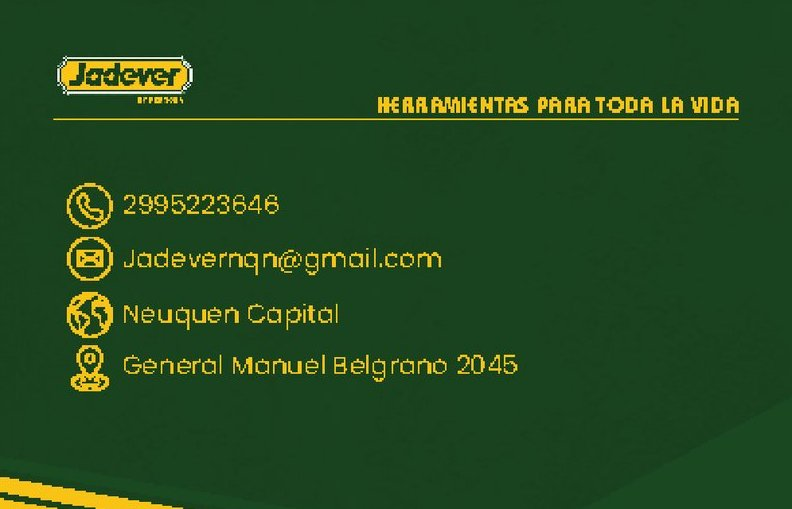
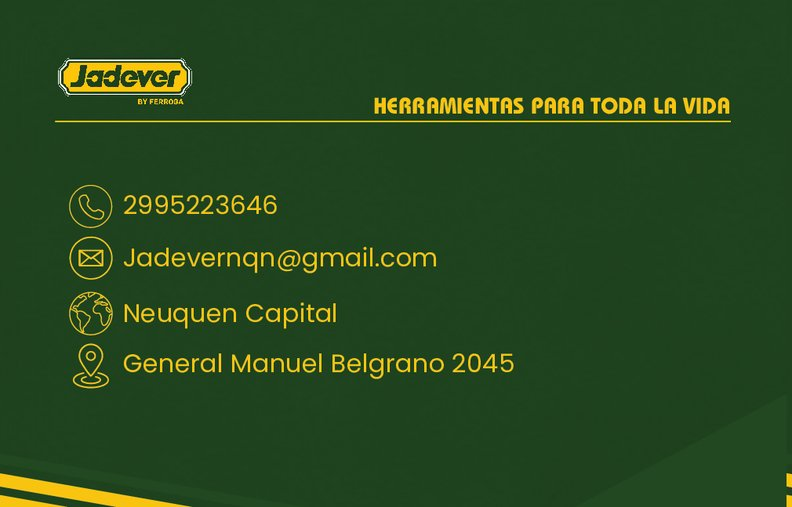
Cambia el dorso de Jadever y separa más las tarjetas
Claude-Session: https://claude.ai/code/session_01RUcYRVFNa8RXKxe8RuP12H

diff --git a/tarjetas.html b/tarjetas.html
@@ -15,7 +15,7 @@
 <link rel="preconnect" href="https://fonts.googleapis.com">
 <link rel="preconnect" href="https://fonts.gstatic.com" crossorigin>
 <link rel="stylesheet" href="https://fonts.googleapis.com/css2?family=Plus+Jakarta+Sans:wght@400;600;700;800&display=swap">
-<link rel="stylesheet" href="css/styles.css?v=6">
+<link rel="stylesheet" href="css/styles.css?v=7">
 </head>
 <body>
 <a class="skip" href="#contenido">Saltar al contenido</a>
@@ -58,7 +58,7 @@
           <button type="button" class="flip-card flip-card--b" aria-pressed="false" aria-label="Tarjeta doble faz de Jadever: mostrar el dorso">
             <span class="flip-card__inner">
               <img class="flip-card__face" src="img/tarjeta-jadever-frente.jpg" alt="" width="792" height="509">
-              <img class="flip-card__face flip-card__face--back" src="img/tarjeta-jadever-dorso.jpg" alt="" width="792" height="509">
+              <img class="flip-card__face flip-card__face--back" src="img/tarjeta-jadever-dorso.jpg" alt="" width="792" height="507">
             </span>
           </button>
         </div>
@@ -134,6 +134,6 @@
 
 <a class="wa-float" href="https://wa.me/5492995973790?text=Hola%2C%20quiero%20hacer%20una%20consulta" aria-label="Escribinos por WhatsApp"><svg aria-hidden="true" viewBox="0 0 16 16" fill="currentColor"><path d="M11.42 9.49c-.19-.09-1.1-.54-1.27-.61s-.29-.09-.42.1-.48.6-.59.73-.21.14-.4 0a5.13 5.13 0 0 1-1.49-.92 5.25 5.25 0 0 1-1-1.29c-.11-.18 0-.28.08-.38s.18-.21.28-.32a1.39 1.39 0 0 0 .18-.31.38.38 0 0 0 0-.33c0-.09-.42-1-.58-1.37s-.3-.32-.41-.32h-.4a.72.72 0 0 0-.5.23 2.1 2.1 0 0 0-.65 1.55A3.59 3.59 0 0 0 5 8.2 8.32 8.32 0 0 0 8.19 11c.44.19.78.3 1.05.39a2.53 2.53 0 0 0 1.17.07 1.93 1.93 0 0 0 1.26-.88 1.67 1.67 0 0 0 .11-.88c-.05-.07-.17-.12-.36-.21z"/><path d="M13.29 2.68A7.36 7.36 0 0 0 8 .5a7.44 7.44 0 0 0-6.41 11.15l-1 3.85 3.94-1a7.4 7.4 0 0 0 3.55.9H8a7.44 7.44 0 0 0 5.29-12.72zM8 14.12a6.12 6.12 0 0 1-3.15-.87l-.22-.13-2.34.61.62-2.28-.14-.23a6.18 6.18 0 0 1 9.6-7.65 6.12 6.12 0 0 1 1.81 4.37A6.19 6.19 0 0 1 8 14.12z"/></svg></a>
 
-<script src="js/main.js?v=6" defer></script>
+<script src="js/main.js?v=7" defer></script>
 </body>
 </html>

diff --git a/css/styles.css b/css/styles.css
@@ -380,10 +380,10 @@ h1, h2, h3, p { margin: 0; }
 }
 
 /* Tarjetas doble faz cruzadas: se dan vuelta al pasar el mouse o al tocarlas */
-.flip-cards { position: relative; width: 100%; max-width: 520px; margin: 0 auto; aspect-ratio: 1 / 0.86; perspective: 1400px; }
-.flip-card { position: absolute; width: 70%; aspect-ratio: 1.6; padding: 0; border: 0; background: none; cursor: pointer; border-radius: 12px; transform: translate(-50%, -50%) rotate(var(--rot)); transition: transform .5s cubic-bezier(.2, .7, .2, 1); -webkit-tap-highlight-color: transparent; }
-.flip-card--a { --rot: -17deg; left: 44%; top: 42%; z-index: 1; }
-.flip-card--b { --rot: 17deg; left: 56%; top: 58%; z-index: 2; }
+.flip-cards { position: relative; width: 100%; max-width: 520px; margin: 0 auto; aspect-ratio: 1 / 0.92; perspective: 1400px; }
+.flip-card { position: absolute; width: 60%; aspect-ratio: 1.6; padding: 0; border: 0; background: none; cursor: pointer; border-radius: 12px; transform: translate(-50%, -50%) rotate(var(--rot)); transition: transform .5s cubic-bezier(.2, .7, .2, 1); -webkit-tap-highlight-color: transparent; }
+.flip-card--a { --rot: -17deg; left: 34%; top: 30%; z-index: 1; }
+.flip-card--b { --rot: 17deg; left: 66%; top: 70%; z-index: 2; }
 .flip-card__inner { display: block; position: relative; width: 100%; height: 100%; transform-style: preserve-3d; transition: transform .7s cubic-bezier(.2, .7, .2, 1); }
 .flip-card__face { position: absolute; inset: 0; width: 100%; height: 100%; object-fit: cover; border-radius: 12px; backface-visibility: hidden; -webkit-backface-visibility: hidden; box-shadow: 0 6px 18px rgba(10, 16, 48, 0.22); }
 .flip-card__face--back { transform: rotateY(180deg); }

diff --git a/index.html b/index.html
@@ -15,7 +15,7 @@
 <link rel="preconnect" href="https://fonts.googleapis.com">
 <link rel="preconnect" href="https://fonts.gstatic.com" crossorigin>
 <link rel="stylesheet" href="https://fonts.googleapis.com/css2?family=Plus+Jakarta+Sans:wght@400;600;700;800&display=swap">
-<link rel="stylesheet" href="css/styles.css?v=6">
+<link rel="stylesheet" href="css/styles.css?v=7">
 <script type="application/ld+json">
 {
   "@context": "https://schema.org",
@@ -323,6 +323,6 @@
 
 <a class="wa-float" href="https://wa.me/5492995973790?text=Hola%2C%20quiero%20hacer%20una%20consulta" aria-label="Escribinos por WhatsApp"><svg aria-hidden="true" viewBox="0 0 16 16" fill="currentColor"><path d="M11.42 9.49c-.19-.09-1.1-.54-1.27-.61s-.29-.09-.42.1-.48.6-.59.73-.21.14-.4 0a5.13 5.13 0 0 1-1.49-.92 5.25 5.25 0 0 1-1-1.29c-.11-.18 0-.28.08-.38s.18-.21.28-.32a1.39 1.39 0 0 0 .18-.31.38.38 0 0 0 0-.33c0-.09-.42-1-.58-1.37s-.3-.32-.41-.32h-.4a.72.72 0 0 0-.5.23 2.1 2.1 0 0 0-.65 1.55A3.59 3.59 0 0 0 5 8.2 8.32 8.32 0 0 0 8.19 11c.44.19.78.3 1.05.39a2.53 2.53 0 0 0 1.17.07 1.93 1.93 0 0 0 1.26-.88 1.67 1.67 0 0 0 .11-.88c-.05-.07-.17-.12-.36-.21z"/><path d="M13.29 2.68A7.36 7.36 0 0 0 8 .5a7.44 7.44 0 0 0-6.41 11.15l-1 3.85 3.94-1a7.4 7.4 0 0 0 3.55.9H8a7.44 7.44 0 0 0 5.29-12.72zM8 14.12a6.12 6.12 0 0 1-3.15-.87l-.22-.13-2.34.61.62-2.28-.14-.23a6.18 6.18 0 0 1 9.6-7.65 6.12 6.12 0 0 1 1.81 4.37A6.19 6.19 0 0 1 8 14.12z"/></svg></a>
 
-<script src="js/main.js?v=6" defer></script>
+<script src="js/main.js?v=7" defer></script>
 </body>
 </html>

diff --git a/agendas.html b/agendas.html
@@ -15,7 +15,7 @@
 <link rel="preconnect" href="https://fonts.googleapis.com">
 <link rel="preconnect" href="https://fonts.gstatic.com" crossorigin>
 <link rel="stylesheet" href="https://fonts.googleapis.com/css2?family=Plus+Jakarta+Sans:wght@400;600;700;800&display=swap">
-<link rel="stylesheet" href="css/styles.css?v=6">
+<link rel="stylesheet" href="css/styles.css?v=7">
 </head>
 <body>
 <a class="skip" href="#contenido">Saltar al contenido</a>
@@ -154,6 +154,6 @@
 
 <a class="wa-float" href="https://wa.me/5492995973790?text=Hola%2C%20quiero%20hacer%20una%20consulta" aria-label="Escribinos por WhatsApp"><svg aria-hidden="true" viewBox="0 0 16 16" fill="currentColor"><path d="M11.42 9.49c-.19-.09-1.1-.54-1.27-.61s-.29-.09-.42.1-.48.6-.59.73-.21.14-.4 0a5.13 5.13 0 0 1-1.49-.92 5.25 5.25 0 0 1-1-1.29c-.11-.18 0-.28.08-.38s.18-.21.28-.32a1.39 1.39 0 0 0 .18-.31.38.38 0 0 0 0-.33c0-.09-.42-1-.58-1.37s-.3-.32-.41-.32h-.4a.72.72 0 0 0-.5.23 2.1 2.1 0 0 0-.65 1.55A3.59 3.59 0 0 0 5 8.2 8.32 8.32 0 0 0 8.19 11c.44.19.78.3 1.05.39a2.53 2.53 0 0 0 1.17.07 1.93 1.93 0 0 0 1.26-.88 1.67 1.67 0 0 0 .11-.88c-.05-.07-.17-.12-.36-.21z"/><path d="M13.29 2.68A7.36 7.36 0 0 0 8 .5a7.44 7.44 0 0 0-6.41 11.15l-1 3.85 3.94-1a7.4 7.4 0 0 0 3.55.9H8a7.44 7.44 0 0 0 5.29-12.72zM8 14.12a6.12 6.12 0 0 1-3.15-.87l-.22-.13-2.34.61.62-2.28-.14-.23a6.18 6.18 0 0 1 9.6-7.65 6.12 6.12 0 0 1 1.81 4.37A6.19 6.19 0 0 1 8 14.12z"/></svg></a>
 
-<script src="js/main.js?v=6" defer></script>
+<script src="js/main.js?v=7" defer></script>
 </body>
 </html>

diff --git a/anillados.html b/anillados.html
@@ -15,7 +15,7 @@
 <link rel="preconnect" href="https://fonts.googleapis.com">
 <link rel="preconnect" href="https://fonts.gstatic.com" crossorigin>
 <link rel="stylesheet" href="https://fonts.googleapis.com/css2?family=Plus+Jakarta+Sans:wght@400;600;700;800&display=swap">
-<link rel="stylesheet" href="css/styles.css?v=6">
+<link rel="stylesheet" href="css/styles.css?v=7">
 </head>
 <body>
 <a class="skip" href="#contenido">Saltar al contenido</a>
@@ -117,6 +117,6 @@
 
 <a class="wa-float" href="https://wa.me/5492995973790?text=Hola%2C%20quiero%20hacer%20una%20consulta" aria-label="Escribinos por WhatsApp"><svg aria-hidden="true" viewBox="0 0 16 16" fill="currentColor"><path d="M11.42 9.49c-.19-.09-1.1-.54-1.27-.61s-.29-.09-.42.1-.48.6-.59.73-.21.14-.4 0a5.13 5.13 0 0 1-1.49-.92 5.25 5.25 0 0 1-1-1.29c-.11-.18 0-.28.08-.38s.18-.21.28-.32a1.39 1.39 0 0 0 .18-.31.38.38 0 0 0 0-.33c0-.09-.42-1-.58-1.37s-.3-.32-.41-.32h-.4a.72.72 0 0 0-.5.23 2.1 2.1 0 0 0-.65 1.55A3.59 3.59 0 0 0 5 8.2 8.32 8.32 0 0 0 8.19 11c.44.19.78.3 1.05.39a2.53 2.53 0 0 0 1.17.07 1.93 1.93 0 0 0 1.26-.88 1.67 1.67 0 0 0 .11-.88c-.05-.07-.17-.12-.36-.21z"/><path d="M13.29 2.68A7.36 7.36 0 0 0 8 .5a7.44 7.44 0 0 0-6.41 11.15l-1 3.85 3.94-1a7.4 7.4 0 0 0 3.55.9H8a7.44 7.44 0 0 0 5.29-12.72zM8 14.12a6.12 6.12 0 0 1-3.15-.87l-.22-.13-2.34.61.62-2.28-.14-.23a6.18 6.18 0 0 1 9.6-7.65 6.12 6.12 0 0 1 1.81 4.37A6.19 6.19 0 0 1 8 14.12z"/></svg></a>
 
-<script src="js/main.js?v=6" defer></script>
+<script src="js/main.js?v=7" defer></script>
 </body>
 </html>

diff --git a/impresiones.html b/impresiones.html
@@ -15,7 +15,7 @@
 <link rel="preconnect" href="https://fonts.googleapis.com">
 <link rel="preconnect" href="https://fonts.gstatic.com" crossorigin>
 <link rel="stylesheet" href="https://fonts.googleapis.com/css2?family=Plus+Jakarta+Sans:wght@400;600;700;800&display=swap">
-<link rel="stylesheet" href="css/styles.css?v=6">
+<link rel="stylesheet" href="css/styles.css?v=7">
 </head>
 <body>
 <a class="skip" href="#contenido">Saltar al contenido</a>
@@ -143,6 +143,6 @@
 
 <a class="wa-float" href="https://wa.me/5492995973790?text=Hola%2C%20quiero%20hacer%20una%20consulta" aria-label="Escribinos por WhatsApp"><svg aria-hidden="true" viewBox="0 0 16 16" fill="currentColor"><path d="M11.42 9.49c-.19-.09-1.1-.54-1.27-.61s-.29-.09-.42.1-.48.6-.59.73-.21.14-.4 0a5.13 5.13 0 0 1-1.49-.92 5.25 5.25 0 0 1-1-1.29c-.11-.18 0-.28.08-.38s.18-.21.28-.32a1.39 1.39 0 0 0 .18-.31.38.38 0 0 0 0-.33c0-.09-.42-1-.58-1.37s-.3-.32-.41-.32h-.4a.72.72 0 0 0-.5.23 2.1 2.1 0 0 0-.65 1.55A3.59 3.59 0 0 0 5 8.2 8.32 8.32 0 0 0 8.19 11c.44.19.78.3 1.05.39a2.53 2.53 0 0 0 1.17.07 1.93 1.93 0 0 0 1.26-.88 1.67 1.67 0 0 0 .11-.88c-.05-.07-.17-.12-.36-.21z"/><path d="M13.29 2.68A7.36 7.36 0 0 0 8 .5a7.44 7.44 0 0 0-6.41 11.15l-1 3.85 3.94-1a7.4 7.4 0 0 0 3.55.9H8a7.44 7.44 0 0 0 5.29-12.72zM8 14.12a6.12 6.12 0 0 1-3.15-.87l-.22-.13-2.34.61.62-2.28-.14-.23a6.18 6.18 0 0 1 9.6-7.65 6.12 6.12 0 0 1 1.81 4.37A6.19 6.19 0 0 1 8 14.12z"/></svg></a>
 
-<script src="js/main.js?v=6" defer></script>
+<script src="js/main.js?v=7" defer></script>
 </body>
 </html>

diff --git a/stickers.html b/stickers.html
@@ -15,7 +15,7 @@
 <link rel="preconnect" href="https://fonts.googleapis.com">
 <link rel="preconnect" href="https://fonts.gstatic.com" crossorigin>
 <link rel="stylesheet" href="https://fonts.googleapis.com/css2?family=Plus+Jakarta+Sans:wght@400;600;700;800&display=swap">
-<link rel="stylesheet" href="css/styles.css?v=6">
+<link rel="stylesheet" href="css/styles.css?v=7">
 </head>
 <body>
 <a class="skip" href="#contenido">Saltar al contenido</a>
@@ -149,6 +149,6 @@
 
 <a class="wa-float" href="https://wa.me/5492995973790?text=Hola%2C%20quiero%20hacer%20una%20consulta" aria-label="Escribinos por WhatsApp"><svg aria-hidden="true" viewBox="0 0 16 16" fill="currentColor"><path d="M11.42 9.49c-.19-.09-1.1-.54-1.27-.61s-.29-.09-.42.1-.48.6-.59.73-.21.14-.4 0a5.13 5.13 0 0 1-1.49-.92 5.25 5.25 0 0 1-1-1.29c-.11-.18 0-.28.08-.38s.18-.21.28-.32a1.39 1.39 0 0 0 .18-.31.38.38 0 0 0 0-.33c0-.09-.42-1-.58-1.37s-.3-.32-.41-.32h-.4a.72.72 0 0 0-.5.23 2.1 2.1 0 0 0-.65 1.55A3.59 3.59 0 0 0 5 8.2 8.32 8.32 0 0 0 8.19 11c.44.19.78.3 1.05.39a2.53 2.53 0 0 0 1.17.07 1.93 1.93 0 0 0 1.26-.88 1.67 1.67 0 0 0 .11-.88c-.05-.07-.17-.12-.36-.21z"/><path d="M13.29 2.68A7.36 7.36 0 0 0 8 .5a7.44 7.44 0 0 0-6.41 11.15l-1 3.85 3.94-1a7.4 7.4 0 0 0 3.55.9H8a7.44 7.44 0 0 0 5.29-12.72zM8 14.12a6.12 6.12 0 0 1-3.15-.87l-.22-.13-2.34.61.62-2.28-.14-.23a6.18 6.18 0 0 1 9.6-7.65 6.12 6.12 0 0 1 1.81 4.37A6.19 6.19 0 0 1 8 14.12z"/></svg></a>
 
-<script src="js/main.js?v=6" defer></script>
+<script src="js/main.js?v=7" defer></script>
 </body>
 </html>

diff --git a/banners.html b/banners.html
@@ -15,7 +15,7 @@
 <link rel="preconnect" href="https://fonts.googleapis.com">
 <link rel="preconnect" href="https://fonts.gstatic.com" crossorigin>
 <link rel="stylesheet" href="https://fonts.googleapis.com/css2?family=Plus+Jakarta+Sans:wght@400;600;700;800&display=swap">
-<link rel="stylesheet" href="css/styles.css?v=6">
+<link rel="stylesheet" href="css/styles.css?v=7">
 </head>
 <body>
 <a class="skip" href="#contenido">Saltar al contenido</a>
@@ -89,6 +89,6 @@
 
 <a class="wa-float" href="https://wa.me/5492995973790?text=Hola%2C%20quiero%20hacer%20una%20consulta" aria-label="Escribinos por WhatsApp"><svg aria-hidden="true" viewBox="0 0 16 16" fill="currentColor"><path d="M11.42 9.49c-.19-.09-1.1-.54-1.27-.61s-.29-.09-.42.1-.48.6-.59.73-.21.14-.4 0a5.13 5.13 0 0 1-1.49-.92 5.25 5.25 0 0 1-1-1.29c-.11-.18 0-.28.08-.38s.18-.21.28-.32a1.39 1.39 0 0 0 .18-.31.38.38 0 0 0 0-.33c0-.09-.42-1-.58-1.37s-.3-.32-.41-.32h-.4a.72.72 0 0 0-.5.23 2.1 2.1 0 0 0-.65 1.55A3.59 3.59 0 0 0 5 8.2 8.32 8.32 0 0 0 8.19 11c.44.19.78.3 1.05.39a2.53 2.53 0 0 0 1.17.07 1.93 1.93 0 0 0 1.26-.88 1.67 1.67 0 0 0 .11-.88c-.05-.07-.17-.12-.36-.21z"/><path d="M13.29 2.68A7.36 7.36 0 0 0 8 .5a7.44 7.44 0 0 0-6.41 11.15l-1 3.85 3.94-1a7.4 7.4 0 0 0 3.55.9H8a7.44 7.44 0 0 0 5.29-12.72zM8 14.12a6.12 6.12 0 0 1-3.15-.87l-.22-.13-2.34.61.62-2.28-.14-.23a6.18 6.18 0 0 1 9.6-7.65 6.12 6.12 0 0 1 1.81 4.37A6.19 6.19 0 0 1 8 14.12z"/></svg></a>
 
-<script src="js/main.js?v=6" defer></script>
+<script src="js/main.js?v=7" defer></script>
 </body>
 </html>

diff --git a/cartel-auto.html b/cartel-auto.html
@@ -15,7 +15,7 @@
 <link rel="preconnect" href="https://fonts.googleapis.com">
 <link rel="preconnect" href="https://fonts.gstatic.com" crossorigin>
 <link rel="stylesheet" href="https://fonts.googleapis.com/css2?family=Plus+Jakarta+Sans:wght@400;600;700;800&display=swap">
-<link rel="stylesheet" href="css/styles.css?v=6">
+<link rel="stylesheet" href="css/styles.css?v=7">
 </head>
 <body>
 <a class="skip" href="#contenido">Saltar al contenido</a>
@@ -88,6 +88,6 @@
 
 <a class="wa-float" href="https://wa.me/5492995973790?text=Hola%2C%20quiero%20hacer%20una%20consulta" aria-label="Escribinos por WhatsApp"><svg aria-hidden="true" viewBox="0 0 16 16" fill="currentColor"><path d="M11.42 9.49c-.19-.09-1.1-.54-1.27-.61s-.29-.09-.42.1-.48.6-.59.73-.21.14-.4 0a5.13 5.13 0 0 1-1.49-.92 5.25 5.25 0 0 1-1-1.29c-.11-.18 0-.28.08-.38s.18-.21.28-.32a1.39 1.39 0 0 0 .18-.31.38.38 0 0 0 0-.33c0-.09-.42-1-.58-1.37s-.3-.32-.41-.32h-.4a.72.72 0 0 0-.5.23 2.1 2.1 0 0 0-.65 1.55A3.59 3.59 0 0 0 5 8.2 8.32 8.32 0 0 0 8.19 11c.44.19.78.3 1.05.39a2.53 2.53 0 0 0 1.17.07 1.93 1.93 0 0 0 1.26-.88 1.67 1.67 0 0 0 .11-.88c-.05-.07-.17-.12-.36-.21z"/><path d="M13.29 2.68A7.36 7.36 0 0 0 8 .5a7.44 7.44 0 0 0-6.41 11.15l-1 3.85 3.94-1a7.4 7.4 0 0 0 3.55.9H8a7.44 7.44 0 0 0 5.29-12.72zM8 14.12a6.12 6.12 0 0 1-3.15-.87l-.22-.13-2.34.61.62-2.28-.14-.23a6.18 6.18 0 0 1 9.6-7.65 6.12 6.12 0 0 1 1.81 4.37A6.19 6.19 0 0 1 8 14.12z"/></svg></a>
 
-<script src="js/main.js?v=6" defer></script>
+<script src="js/main.js?v=7" defer></script>
 </body>
 </html>

diff --git a/carteles-foam.html b/carteles-foam.html
@@ -15,7 +15,7 @@
 <link rel="preconnect" href="https://fonts.googleapis.com">
 <link rel="preconnect" href="https://fonts.gstatic.com" crossorigin>
 <link rel="stylesheet" href="https://fonts.googleapis.com/css2?family=Plus+Jakarta+Sans:wght@400;600;700;800&display=swap">
-<link rel="stylesheet" href="css/styles.css?v=6">
+<link rel="stylesheet" href="css/styles.css?v=7">
 </head>
 <body>
 <a class="skip" href="#contenido">Saltar al contenido</a>
@@ -88,6 +88,6 @@
 
 <a class="wa-float" href="https://wa.me/5492995973790?text=Hola%2C%20quiero%20hacer%20una%20consulta" aria-label="Escribinos por WhatsApp"><svg aria-hidden="true" viewBox="0 0 16 16" fill="currentColor"><path d="M11.42 9.49c-.19-.09-1.1-.54-1.27-.61s-.29-.09-.42.1-.48.6-.59.73-.21.14-.4 0a5.13 5.13 0 0 1-1.49-.92 5.25 5.25 0 0 1-1-1.29c-.11-.18 0-.28.08-.38s.18-.21.28-.32a1.39 1.39 0 0 0 .18-.31.38.38 0 0 0 0-.33c0-.09-.42-1-.58-1.37s-.3-.32-.41-.32h-.4a.72.72 0 0 0-.5.23 2.1 2.1 0 0 0-.65 1.55A3.59 3.59 0 0 0 5 8.2 8.32 8.32 0 0 0 8.19 11c.44.19.78.3 1.05.39a2.53 2.53 0 0 0 1.17.07 1.93 1.93 0 0 0 1.26-.88 1.67 1.67 0 0 0 .11-.88c-.05-.07-.17-.12-.36-.21z"/><path d="M13.29 2.68A7.36 7.36 0 0 0 8 .5a7.44 7.44 0 0 0-6.41 11.15l-1 3.85 3.94-1a7.4 7.4 0 0 0 3.55.9H8a7.44 7.44 0 0 0 5.29-12.72zM8 14.12a6.12 6.12 0 0 1-3.15-.87l-.22-.13-2.34.61.62-2.28-.14-.23a6.18 6.18 0 0 1 9.6-7.65 6.12 6.12 0 0 1 1.81 4.37A6.19 6.19 0 0 1 8 14.12z"/></svg></a>
 
-<script src="js/main.js?v=6" defer></script>
+<script src="js/main.js?v=7" defer></script>
 </body>
 </html>

diff --git a/carteles-nfc-qr.html b/carteles-nfc-qr.html
@@ -15,7 +15,7 @@
 <link rel="preconnect" href="https://fonts.googleapis.com">
 <link rel="preconnect" href="https://fonts.gstatic.com" crossorigin>
 <link rel="stylesheet" href="https://fonts.googleapis.com/css2?family=Plus+Jakarta+Sans:wght@400;600;700;800&display=swap">
-<link rel="stylesheet" href="css/styles.css?v=6">
+<link rel="stylesheet" href="css/styles.css?v=7">
 </head>
 <body>
 <a class="skip" href="#contenido">Saltar al contenido</a>
@@ -88,6 +88,6 @@
 
 <a class="wa-float" href="https://wa.me/5492995973790?text=Hola%2C%20quiero%20hacer%20una%20consulta" aria-label="Escribinos por WhatsApp"><svg aria-hidden="true" viewBox="0 0 16 16" fill="currentColor"><path d="M11.42 9.49c-.19-.09-1.1-.54-1.27-.61s-.29-.09-.42.1-.48.6-.59.73-.21.14-.4 0a5.13 5.13 0 0 1-1.49-.92 5.25 5.25 0 0 1-1-1.29c-.11-.18 0-.28.08-.38s.18-.21.28-.32a1.39 1.39 0 0 0 .18-.31.38.38 0 0 0 0-.33c0-.09-.42-1-.58-1.37s-.3-.32-.41-.32h-.4a.72.72 0 0 0-.5.23 2.1 2.1 0 0 0-.65 1.55A3.59 3.59 0 0 0 5 8.2 8.32 8.32 0 0 0 8.19 11c.44.19.78.3 1.05.39a2.53 2.53 0 0 0 1.17.07 1.93 1.93 0 0 0 1.26-.88 1.67 1.67 0 0 0 .11-.88c-.05-.07-.17-.12-.36-.21z"/><path d="M13.29 2.68A7.36 7.36 0 0 0 8 .5a7.44 7.44 0 0 0-6.41 11.15l-1 3.85 3.94-1a7.4 7.4 0 0 0 3.55.9H8a7.44 7.44 0 0 0 5.29-12.72zM8 14.12a6.12 6.12 0 0 1-3.15-.87l-.22-.13-2.34.61.62-2.28-.14-.23a6.18 6.18 0 0 1 9.6-7.65 6.12 6.12 0 0 1 1.81 4.37A6.19 6.19 0 0 1 8 14.12z"/></svg></a>
 
-<script src="js/main.js?v=6" defer></script>
+<script src="js/main.js?v=7" defer></script>
 </body>
 </html>

diff --git a/diseno.html b/diseno.html
@@ -15,7 +15,7 @@
 <link rel="preconnect" href="https://fonts.googleapis.com">
 <link rel="preconnect" href="https://fonts.gstatic.com" crossorigin>
 <link rel="stylesheet" href="https://fonts.googleapis.com/css2?family=Plus+Jakarta+Sans:wght@400;600;700;800&display=swap">
-<link rel="stylesheet" href="css/styles.css?v=6">
+<link rel="stylesheet" href="css/styles.css?v=7">
 </head>
 <body>
 <a class="skip" href="#contenido">Saltar al contenido</a>
@@ -96,6 +96,6 @@
 
 <a class="wa-float" href="https://wa.me/5492995973790?text=Hola%2C%20quiero%20hacer%20una%20consulta" aria-label="Escribinos por WhatsApp"><svg aria-hidden="true" viewBox="0 0 16 16" fill="currentColor"><path d="M11.42 9.49c-.19-.09-1.1-.54-1.27-.61s-.29-.09-.42.1-.48.6-.59.73-.21.14-.4 0a5.13 5.13 0 0 1-1.49-.92 5.25 5.25 0 0 1-1-1.29c-.11-.18 0-.28.08-.38s.18-.21.28-.32a1.39 1.39 0 0 0 .18-.31.38.38 0 0 0 0-.33c0-.09-.42-1-.58-1.37s-.3-.32-.41-.32h-.4a.72.72 0 0 0-.5.23 2.1 2.1 0 0 0-.65 1.55A3.59 3.59 0 0 0 5 8.2 8.32 8.32 0 0 0 8.19 11c.44.19.78.3 1.05.39a2.53 2.53 0 0 0 1.17.07 1.93 1.93 0 0 0 1.26-.88 1.67 1.67 0 0 0 .11-.88c-.05-.07-.17-.12-.36-.21z"/><path d="M13.29 2.68A7.36 7.36 0 0 0 8 .5a7.44 7.44 0 0 0-6.41 11.15l-1 3.85 3.94-1a7.4 7.4 0 0 0 3.55.9H8a7.44 7.44 0 0 0 5.29-12.72zM8 14.12a6.12 6.12 0 0 1-3.15-.87l-.22-.13-2.34.61.62-2.28-.14-.23a6.18 6.18 0 0 1 9.6-7.65 6.12 6.12 0 0 1 1.81 4.37A6.19 6.19 0 0 1 8 14.12z"/></svg></a>
 
-<script src="js/main.js?v=6" defer></script>
+<script src="js/main.js?v=7" defer></script>
 </body>
 </html>
